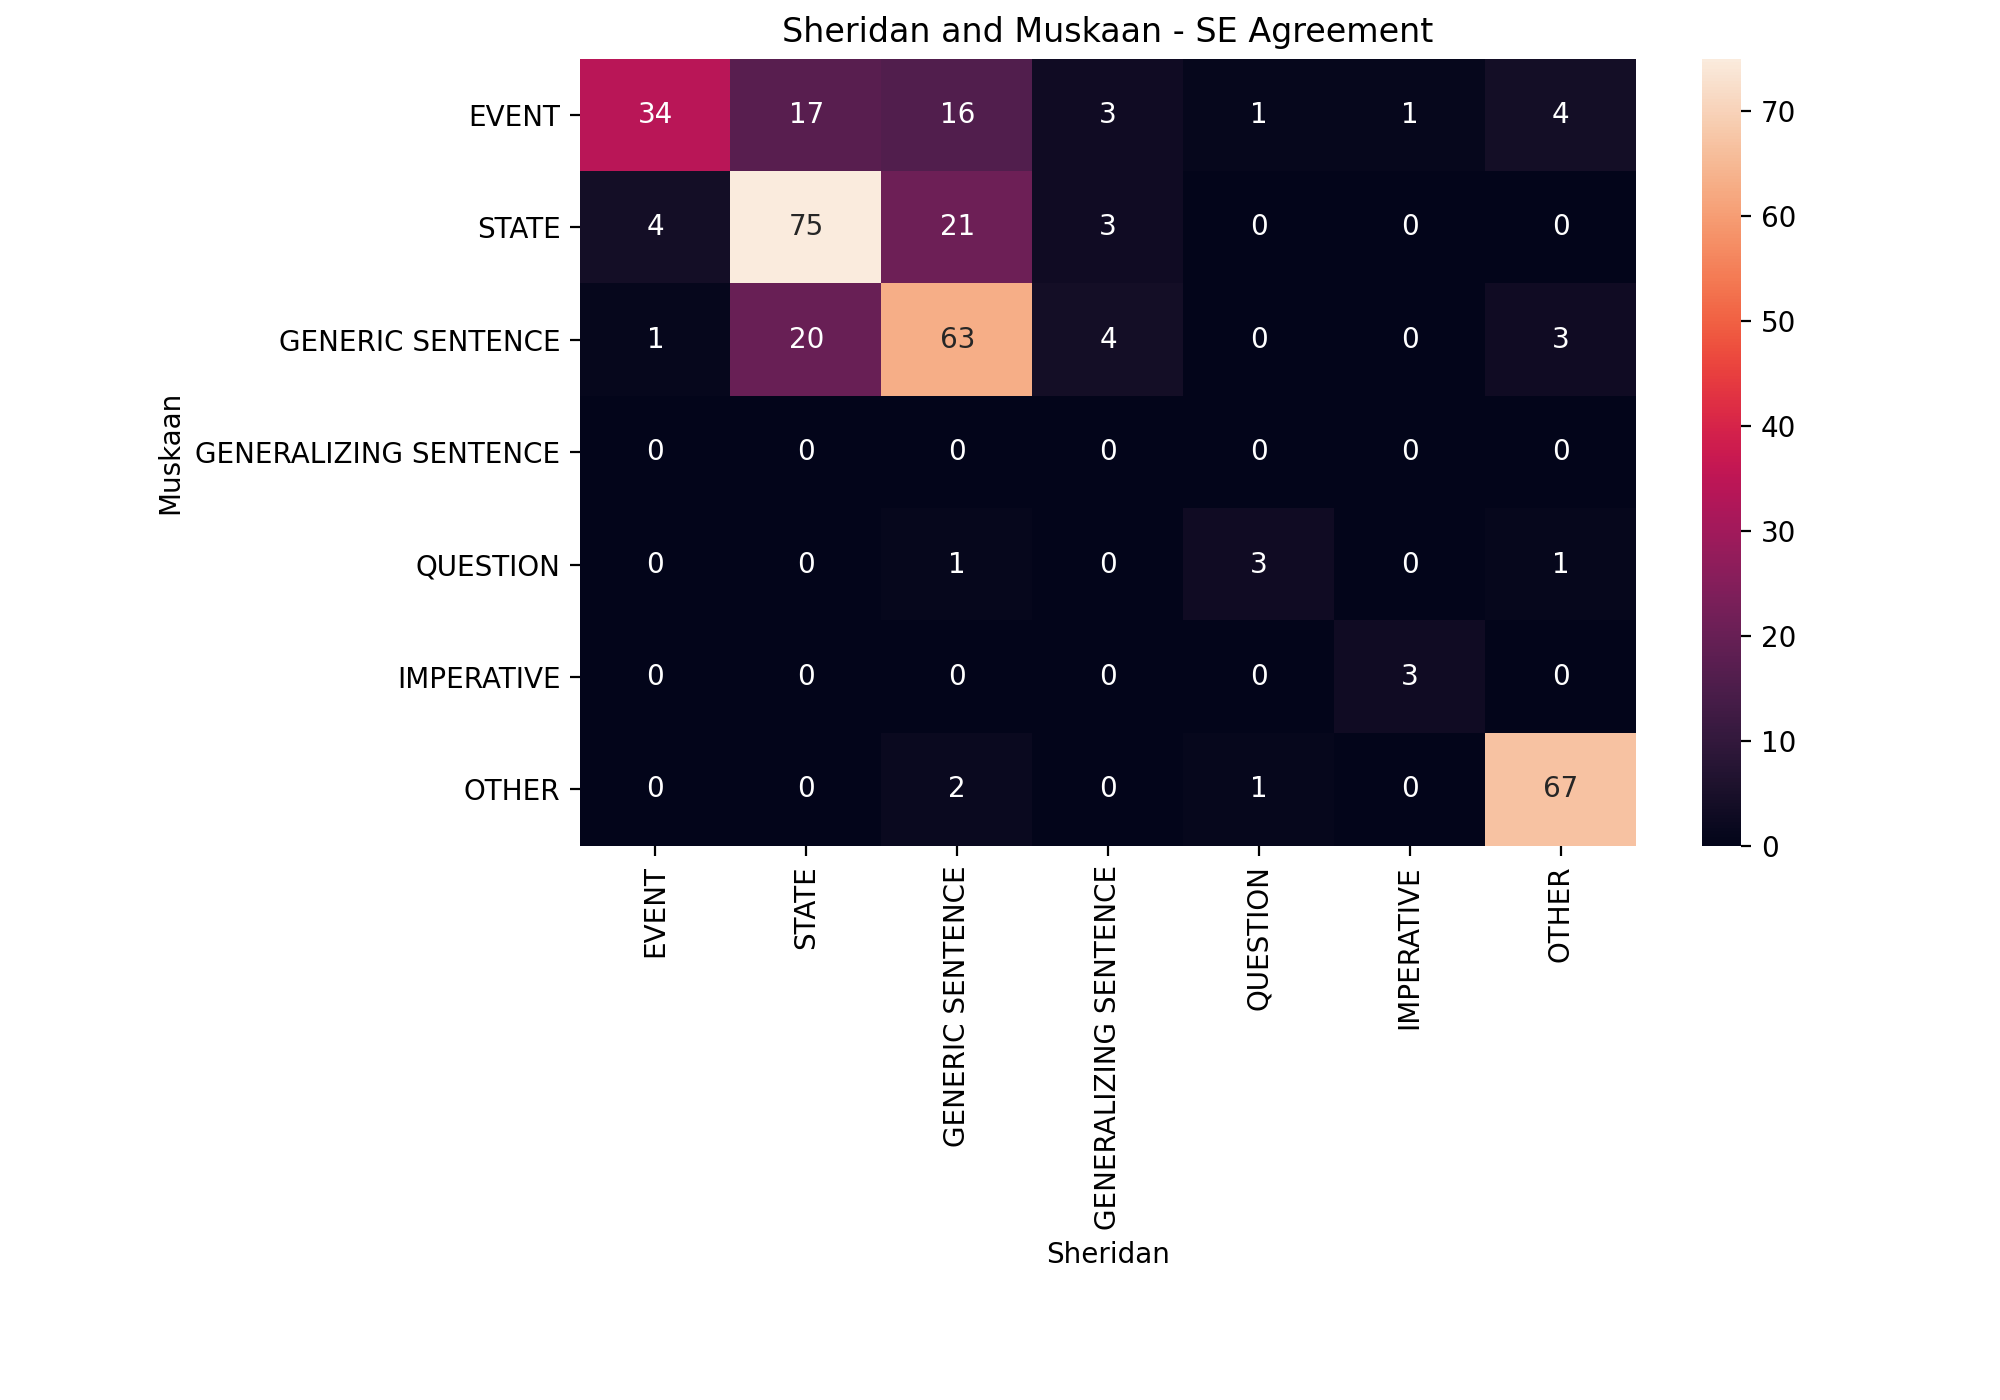
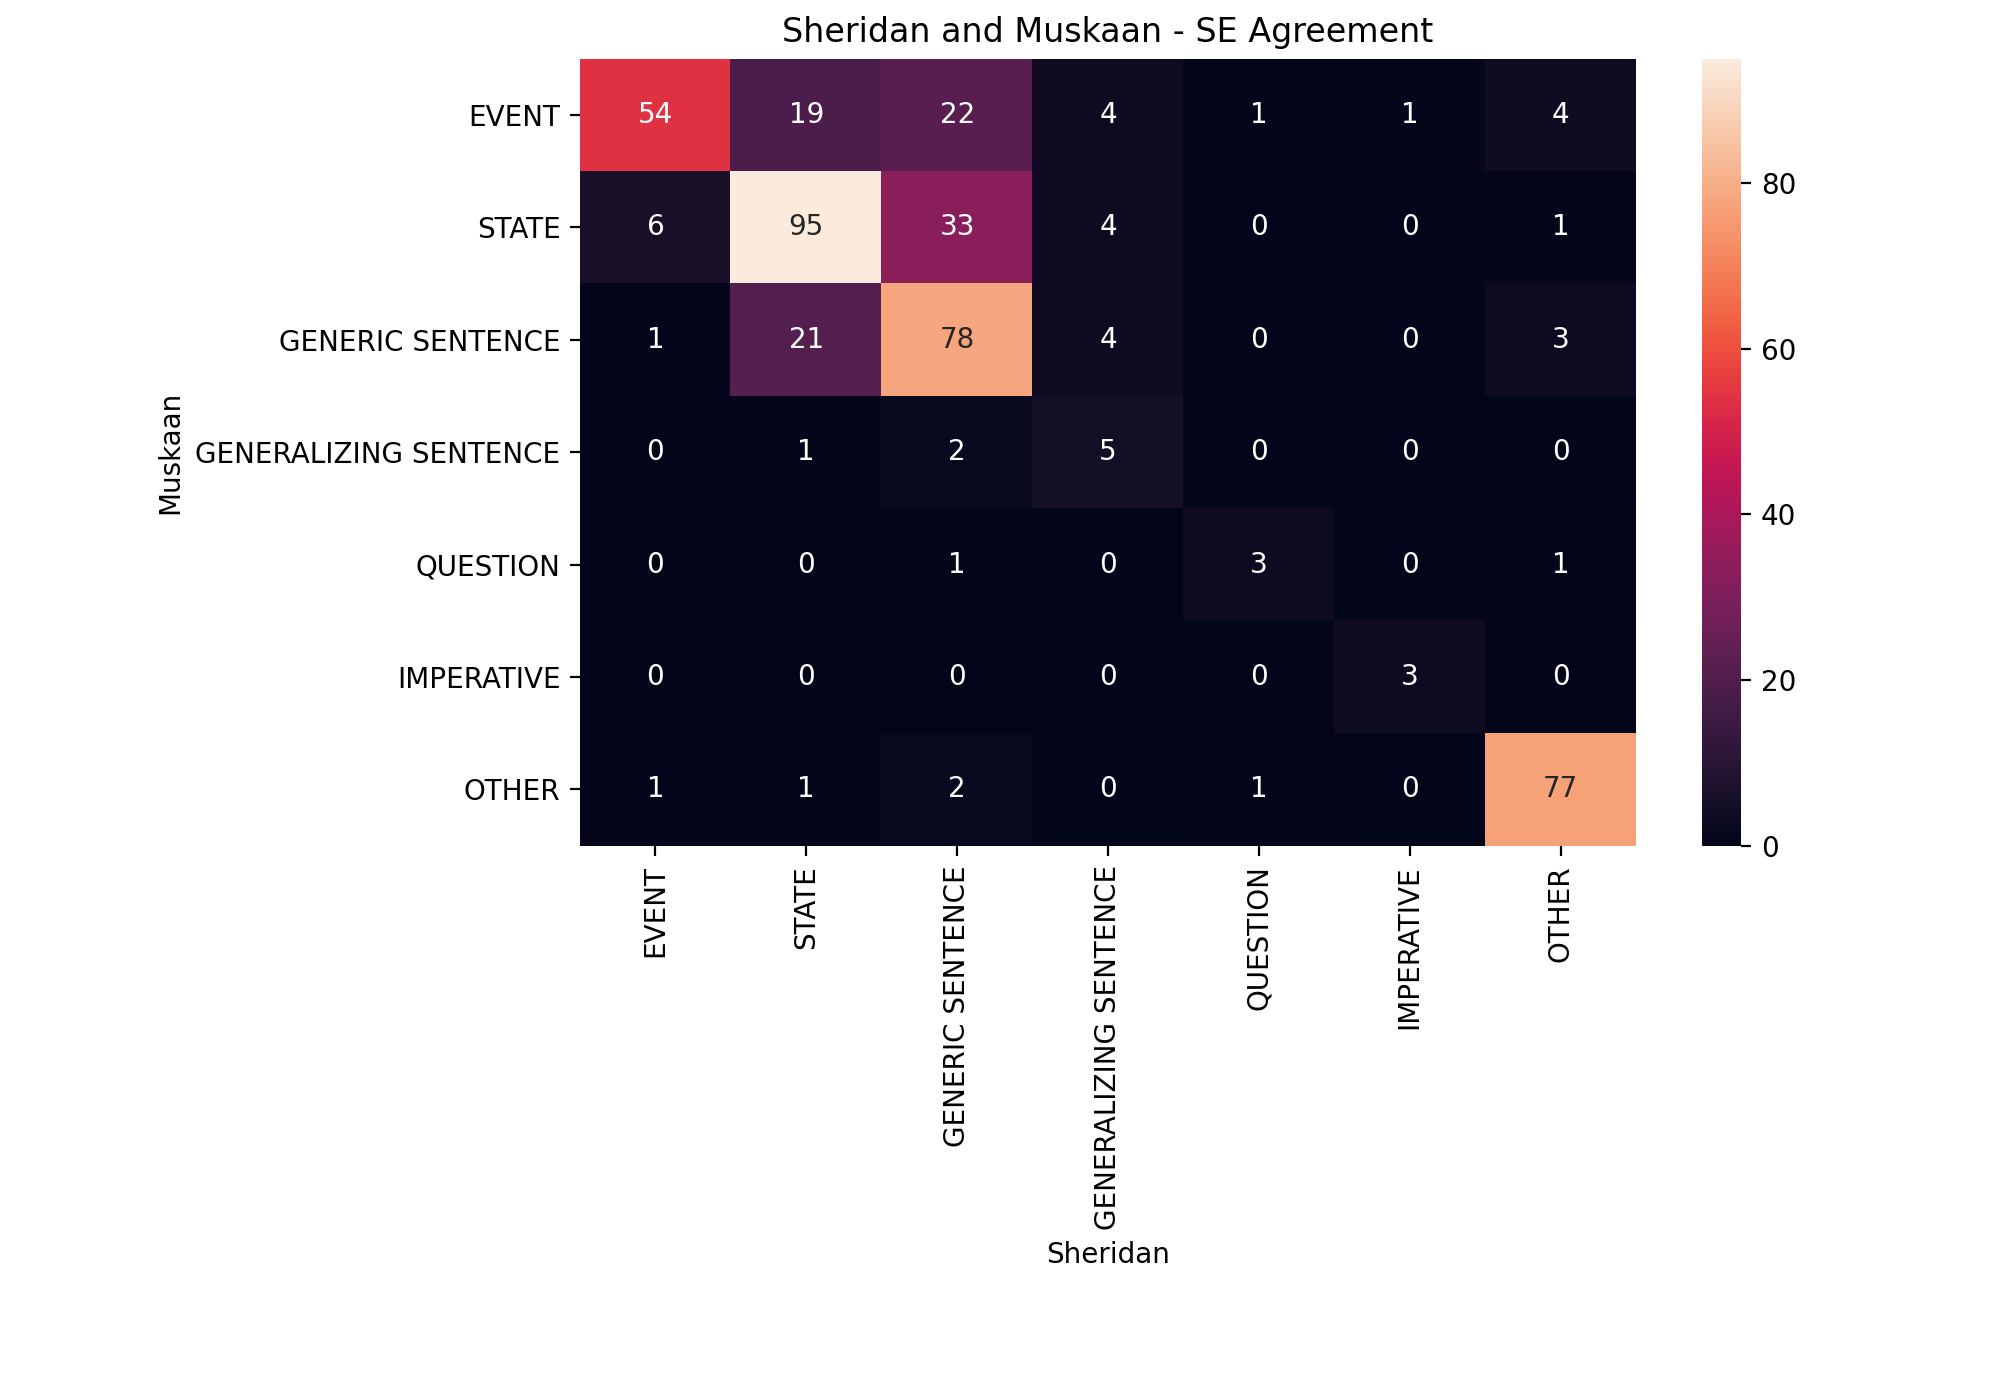
fixed typos in new docs, some new confusion matrices

diff --git a/agreement_SE.py b/agreement_SE.py
@@ -12,7 +12,7 @@ from clean_up_SE_coh import valid_full_SE_types
 
 # Overall macros for the file
 remove_low_confidence = False
-friedrich_palmer_mappings = True
+friedrich_palmer_mappings = False
 
 # First, extract all of the SE types and coh relations and put into containers.
 
@@ -155,10 +155,10 @@ print("overall mean alpha score: ", alpha_scores['kripp_alpha'].mean())
 print("human mean alpha score: ", alpha_scores[(alpha_scores['type'] == 'human')]['kripp_alpha'].mean())
 print("grover mean alpha score: ", alpha_scores[(alpha_scores['type'] == 'grover')]['kripp_alpha'].mean())
 
-# print('\n' + 'agreement concatenating docs together:')
-# for k in agreement_by_pair.keys():
-#     a, b = agreement_by_pair[k].keys()
-#     print(k, ka.krippendorff_alpha([agreement_by_pair[k][a], agreement_by_pair[k][b]], metric=ka.nominal_metric, convert_items=str, missing_items='*'))
+print('\n' + 'agreement concatenating docs together:')
+for k in agreement_by_pair.keys():
+    a, b = agreement_by_pair[k].keys()
+    print(k, ka.krippendorff_alpha([agreement_by_pair[k][a], agreement_by_pair[k][b]], metric=ka.nominal_metric, convert_items=str, missing_items='*'))
 
 ## CONFUSION MATRICES
 matrix_labels = friedrich_palmer if friedrich_palmer_mappings else valid_full_SE_types

diff --git a/clean_up_SE_coh.py b/clean_up_SE_coh.py
@@ -43,7 +43,6 @@ def fix_SE_typo(old, f, annotator):
 
 ### this code fixes SE typos in the whole corpus
 ### if a typo has been seen before and is in this code, fixes it, otherwise prints
-'''
 for annotator in annotators:
     folder = os.listdir("{}/".format(annotator))
     SE_files = [f for f in folder if 'annotation' not in f]
@@ -63,7 +62,7 @@ for annotator in annotators:
                             annotated_doc.write(line)
                 else:
                     annotated_doc.write(line)
-'''
+
 
 
 valid_full_coh_rels = ['ce', 'cex', 'elab', 'elabx', 'same', 'samex', 'attr', 
@@ -90,7 +89,7 @@ def fix_coh_typo(old, f, annotator):
 
 ### this code fixes coherence typos in the whole corpus
 ### if a typo has been seen before and is in this code, fixes it, otherwise prints
-'''
+
 for annotator in annotators:
     folder = os.listdir("{}/".format(annotator))
     coh_files = [f for f in folder if 'annotation' in f]
@@ -109,7 +108,7 @@ for annotator in annotators:
                             annotations.write(line)
                 else:
                     annotations.write(line)
-'''
+
 
 ################################################################################
 

diff --git a/agreement_coh.py b/agreement_coh.py
@@ -11,11 +11,11 @@ from clean_up_SE_coh import valid_full_coh_rels, valid_simple_coh_rels
 
 # all the top_10 stuff commented out is for sampling actual examples of disagreeing relations from the documents
 # these are macros for the whole file so you can change things easily 
-boundaries_lenient = False
-ignore_elab_disagreements = False
-elab_blobs_on = False
+boundaries_lenient = True
+ignore_elab_disagreements = True
+elab_blobs_on = True
 remove_low_confidence = True
-confusion_matrix_simple = True
+confusion_matrix_simple = False
 
 # First, extract all of the SE types and coh relations and put into containers.
 
@@ -525,6 +525,7 @@ for doc_id in h_docs + g_docs:
 print("boundaries_lenient=" + str(boundaries_lenient))
 print("ignore_elab_disagreements=" + str(ignore_elab_disagreements))
 print("elab_blobs_on=" + str(elab_blobs_on))
+print("remove_low_confidence=" + str(remove_low_confidence))
 if elab_blobs_on:
     print('average blob_diff: ', np.mean(blob_diff))
 
